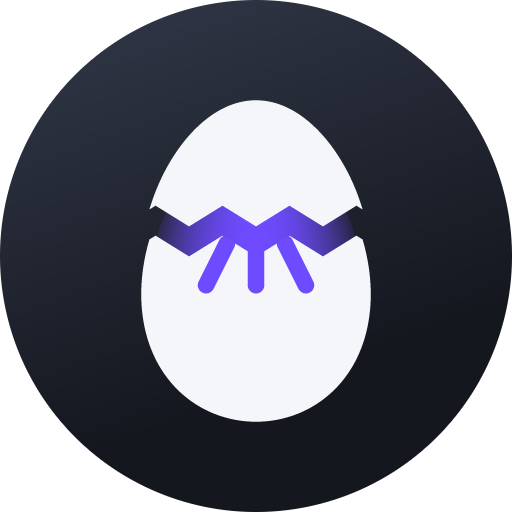
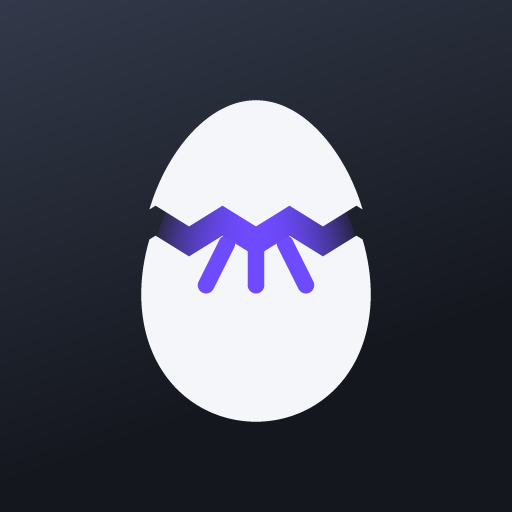
fix: o icone da tela inicial saia com duas bordas, uma dentro da outra
O `apple-touch-icon.png` era gerado como TILE: raio de 48,2px e uma margem
transparente de 11px de cada lado, dentro de um quadro de 180. O iOS aplica o
squircle dele por cima de qualquer apple-touch-icon — nao existe atributo pra
recusar — e pinta de branco o que estiver transparente. Entao o que chegava na
tela inicial era a moldura clara do sistema, o canto do sistema, e dentro dela
um SEGUNDO canto arredondado com o degrau entre os dois.

Nao dava pra consertar do lado do CSS nem do manifest: quem escolhe a mascara e
o sistema. So dava pra parar de mandar a forma junto.

Agora ha duas formas declaradas por arquivo, no tipo `Forma`:

  tile    ninguem recorta — o PNG desenha o raio do handoff, a borda de meio
          pixel e a quina iluminada. Favicons e os `purpose: "any"`.
  cheio   o sistema recorta — quadrado opaco de ponta a ponta, raio zero,
          margem zero. `apple-touch-icon` e o `maskable` do Android.

Medido nos arquivos gerados: alfa 255 nas quatro quinas e ZERO pixel
nao-opaco nos dois `cheio`.

## O maskable do Android era um circulo

`radius = size / 2` com `half = size / 2` degenera a rounded-rect num circulo.
Sob a mascara redonda de alguns aparelhos isso passava despercebido; sob
squircle, quadrado ou gota — que sao as outras formas que os fabricantes usam —
sobra vao transparente em volta, o mesmo defeito do iOS por outra porta.
Agora e quadrado cheio, com a marca em 78% pra caber na zona segura de 80% da
[…]

diff --git a/apps/web/scripts/make-icons.ts b/apps/web/scripts/make-icons.ts
@@ -42,10 +42,33 @@ const OUT_DIR = join(HERE, "..", "public");
  * conflito com o desenho se pergunta, nao se improvisa.
  *
  * O resultado apareceu na tela inicial: preto chapado, sem quina iluminada, o
- * ovo boiando num vazio. *"os icones novos do app ainda n estao aplicados
- * corretamente"*.
+ * ovo boiando num vazio — o icone instalado nao era o icone do desenho.
  */
 type Tema = "dark" | "light";
+
+/**
+ * Como o arquivo vai ser tratado por quem o exibe. E a distincao que decide se
+ * o PNG carrega a propria forma ou entrega um quadrado pro sistema recortar.
+ *
+ * `tile` — NINGUEM recorta. O arquivo desenha a forma inteira: o raio do
+ * handoff, a borda fina de meio pixel e a quina iluminada. E o caso do favicon
+ * (navegador nao mascara nada) e dos icones `purpose: "any"` do manifest.
+ *
+ * `cheio` — O SISTEMA recorta, e por isso o PNG precisa ser um quadrado OPACO
+ * de ponta a ponta, sem raio e sem margem. Vale pro `apple-touch-icon`, que o
+ * iOS mascara com o squircle dele SEMPRE (nao existe atributo pra recusar), e
+ * pro icone `maskable` do Android.
+ *
+ * ⚠ MANDAR UM `tile` ONDE SE ESPERA `cheio` E O DEFEITO QUE APARECEU NA TELA
+ * INICIAL DO IPHONE. O iOS recorta o squircle dele por fora; entre essa mascara
+ * e o desenho sobra a margem transparente que o arquivo trouxe, e o sistema
+ * pinta esse vao. O que se ve e uma moldura clara em volta de um SEGUNDO canto
+ * arredondado — duas bordas, uma dentro da outra, com um degrau entre elas.
+ *
+ * Nao da pra consertar isso do lado do CSS nem do manifest: quem escolhe a
+ * mascara e o sistema. So da pra parar de mandar a forma junto.
+ */
+type Forma = "tile" | "cheio";
 
 interface Paleta {
   /** As duas paradas do tile, do handoff. A 0% e a 70%. */
@@ -355,17 +378,23 @@ function ovoAt(
   return null;
 }
 
-function renderIcon(size: number, maskable: boolean, tema: Tema): Uint8Array {
+function renderIcon(
+  size: number,
+  forma: Forma,
+  monoScale: number,
+  tema: Tema,
+): Uint8Array {
   const paleta = PALETAS[tema];
   const rgba = new Uint8Array(size * size * 4);
+  const cheio = forma === "cheio";
 
-  // Icone maskable precisa de zona segura: o sistema recorta ate 10% de cada
-  // borda. Entao o tile ocupa tudo e o monograma encolhe pro centro.
-  const inset = maskable ? 0 : size * 0.06;
+  // No `cheio` o tile vai de borda a borda e a forma e um quadrado: raio zero,
+  // margem zero. Quem arredonda e o sistema, e desenhar o raio aqui produz o
+  // canto duplo descrito no tipo `Forma`.
+  const inset = cheio ? 0 : size * 0.06;
   const half = size / 2 - inset;
   // 30/112 do handoff — o mesmo raio que ele usa no tile grande, 112/418.
-  const radius = maskable ? size / 2 : size * (30 / 112);
-  const monoScale = maskable ? 0.78 : 1;
+  const radius = cheio ? 0 : size * (30 / 112);
   // Abaixo disto o zigue-zague nao cabe em pixel nenhum. Ver `alturaDaFenda`:
   // com 3,4 dentes a 32px cada um tem menos de um pixel de base e a quebra vira
   // uma linha borrada — pior que uma linha quase reta. Desenhar menos mostra
@@ -425,8 +454,20 @@ function renderIcon(size: number, maskable: boolean, tema: Tema): Uint8Array {
        * Aqui a segunda sai deslocando a forma e perguntando onde ela ja saiu:
        * amostrar 1,5px acima equivale a baixar o retangulo. Onde o deslocado ja
        * e de fora mas o real ainda e de dentro, tem luz.
+       *
+       * ⚠ O SINAL AQUI ESTAVA TROCADO, e o efeito era o oposto do documentado.
+       * Amostrar a SDF em `py + δ` descreve a forma subida em δ, e a faixa
+       * "dentro da real, fora da deslocada" cai entao EMBAIXO. Com
+       * `py - quinaLado * δ`, o tema escuro (`quinaLado: -1`) virava `py + δ` e
+       * acendia a aresta de BAIXO, e o claro escurecia a de CIMA. Os dois
+       * temas saiam com o relevo invertido — luz vindo do chao.
+       *
+       * Nao aparecia em teste porque a quina e 22% de branco numa aresta de
+       * 1,5px: da pra olhar o icone e nao saber apontar o que esta errado, so
+       * que ele parece chapado. Foi conferido medindo o brilho medio das duas
+       * arestas, e nao no olho.
        */
-      if (!maskable) {
+      if (!cheio) {
         const escala = size / 112; // o tile do handoff mede 112
         // A borda fina: o que esta dentro da forma mas fora dela encolhida.
         const dentro = Math.max(0, Math.min(1, 0.5 - (d + 0.5 * escala)));
@@ -434,7 +475,7 @@ function renderIcon(size: number, maskable: boolean, tema: Tema): Uint8Array {
         // A luz da quina: a forma empurrada `quinaLado` * 1,5px.
         const dQuina = roundedRectSdf(
           px,
-          py - paleta.quinaLado * 1.5 * escala,
+          py + paleta.quinaLado * 1.5 * escala,
           size / 2,
           size / 2,
           half,
@@ -472,20 +513,35 @@ await mkdir(OUT_DIR, { recursive: true });
  * arquivo uma vez, na hora de instalar. O escuro fica como padrao porque o app
  * abre no escuro e o `background_color` do manifest e preto.
  */
-for (const [size, maskable, name] of [
-  [192, false, "icon-192.png"],
-  [512, false, "icon-512.png"],
-  [512, true, "icon-maskable-512.png"],
-  [180, false, "apple-touch-icon.png"],
+/*
+ * A terceira coluna e quanto do quadro a MARCA ocupa, e os dois `cheio` pedem
+ * numeros diferentes porque as duas mascaras comem coisas diferentes.
+ *
+ * O Android recorta ate 10% de cada borda e a forma da mascara varia por
+ * fabricante — pode ser circulo. A especificacao chama de zona segura o circulo
+ * central de 80%, entao a marca desce pra 0,78 e nada importante encosta na
+ * beirada.
+ *
+ * O iOS usa um squircle so, inscrito no quadrado: ele come as QUINAS e nao
+ * toca no meio das arestas. Marca centrada nao corre risco nenhum, e encolher
+ * ali so deixaria o icone menor que os vizinhos na tela inicial. Fica em 1 — o
+ * mesmo valor dos `tile`, entao o ovo sai do mesmo tamanho em todos os
+ * arquivos e so o fundo em volta e que muda.
+ */
+for (const [size, forma, marca, name] of [
+  [192, "tile", 1, "icon-192.png"],
+  [512, "tile", 1, "icon-512.png"],
+  [512, "cheio", 0.78, "icon-maskable-512.png"],
+  [180, "cheio", 1, "apple-touch-icon.png"],
   // Favicons renderizados NO tamanho, nao encolhidos do 512: o navegador
   // reamostra a imagem grande e a marca vira borrao: sao tres barras finas com
   // vaos de dois pixels. Renderizado direto, com supersampling, ele sai nitido.
-  [32, false, "favicon-32.png"],
-  [16, false, "favicon-16.png"],
+  [32, "tile", 1, "favicon-32.png"],
+  [16, "tile", 1, "favicon-16.png"],
 ] as const) {
   for (const tema of ["dark", "light"] as const) {
     const arquivo = tema === "dark" ? name : name.replace(".png", "-light.png");
-    const png = encodePng(size, size, renderIcon(size, maskable, tema));
+    const png = encodePng(size, size, renderIcon(size, forma, marca, tema));
     await writeFile(join(OUT_DIR, arquivo), png);
     console.log(`${arquivo.padEnd(30)} ${size}x${size}  ${(png.length / 1024).toFixed(1)} KB`);
   }

diff --git a/apps/web/vite.config.ts b/apps/web/vite.config.ts
@@ -292,9 +292,20 @@ export default defineConfig({
           { src: `${base}icon-192.png`, sizes: "192x192", type: "image/png" },
           { src: `${base}icon-512.png`, sizes: "512x512", type: "image/png" },
           {
-            // Variante propria: o sistema recorta ate 10% de cada borda, entao
-            // este arquivo tem zona segura e o monograma encolhido. Usar o
-            // icone normal aqui faria o Android cortar as pontas do "K".
+            /*
+             * Variante propria, e as duas diferencas dela sao obrigatorias.
+             *
+             * QUADRADO CHEIO, sem raio e sem margem: quem arredonda e o
+             * sistema, e a forma varia por fabricante. Um arquivo com a
+             * propria forma vira forma DENTRO de forma, com um vao entre as
+             * duas. Ele ja foi desenhado como circulo aqui, o que so passava
+             * despercebido em aparelho de mascara redonda.
+             *
+             * MARCA ENCOLHIDA pra 78%: o Android recorta ate 10% de cada
+             * borda e a zona segura da especificacao e o circulo central de
+             * 80%. Os `purpose: "any"` acima nao levam nada disso — ninguem
+             * os mascara, e por isso eles mantem o raio do handoff.
+             */
             src: `${base}icon-maskable-512.png`,
             sizes: "512x512",
             type: "image/png",
